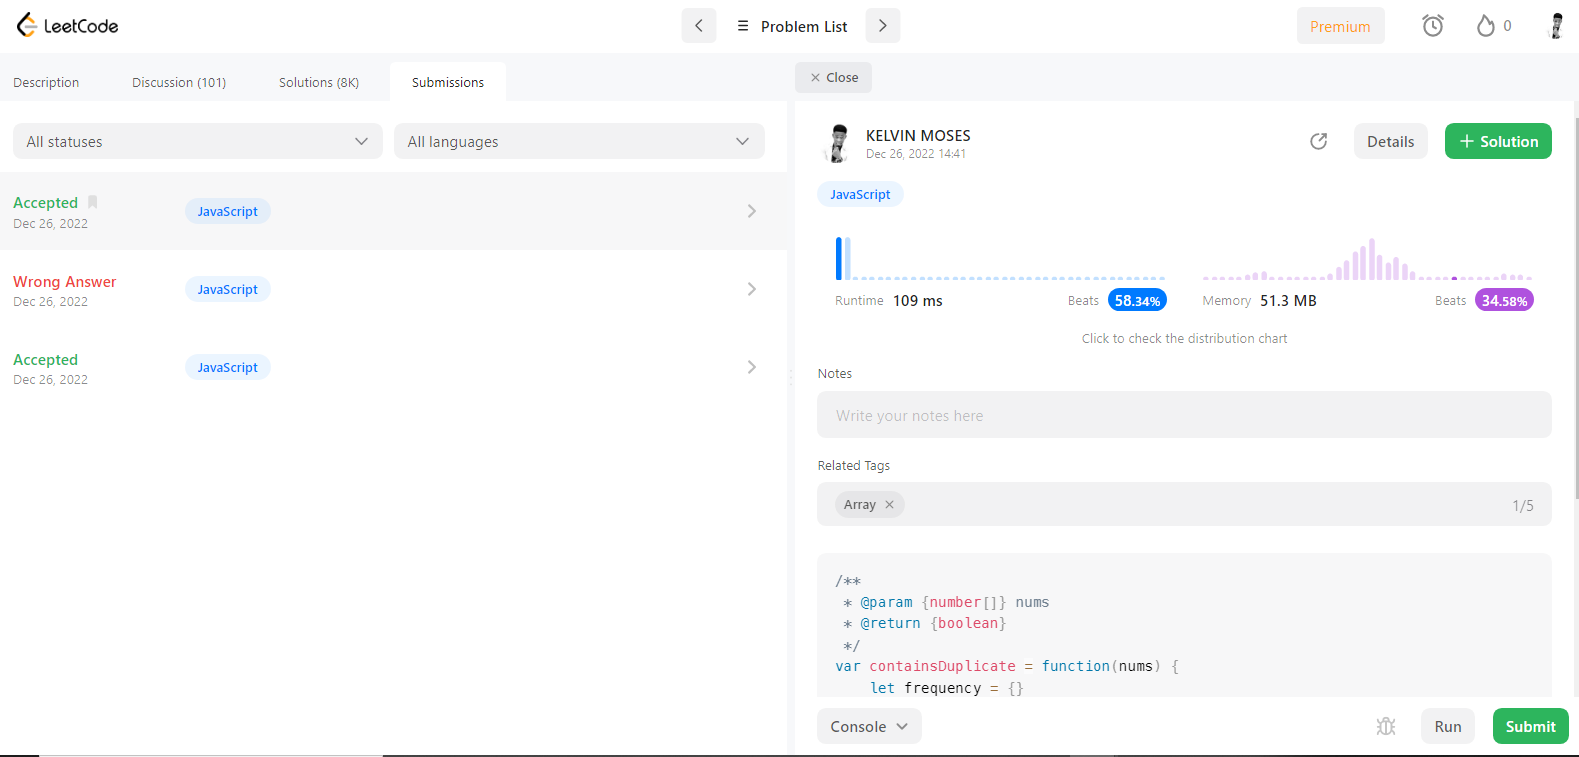
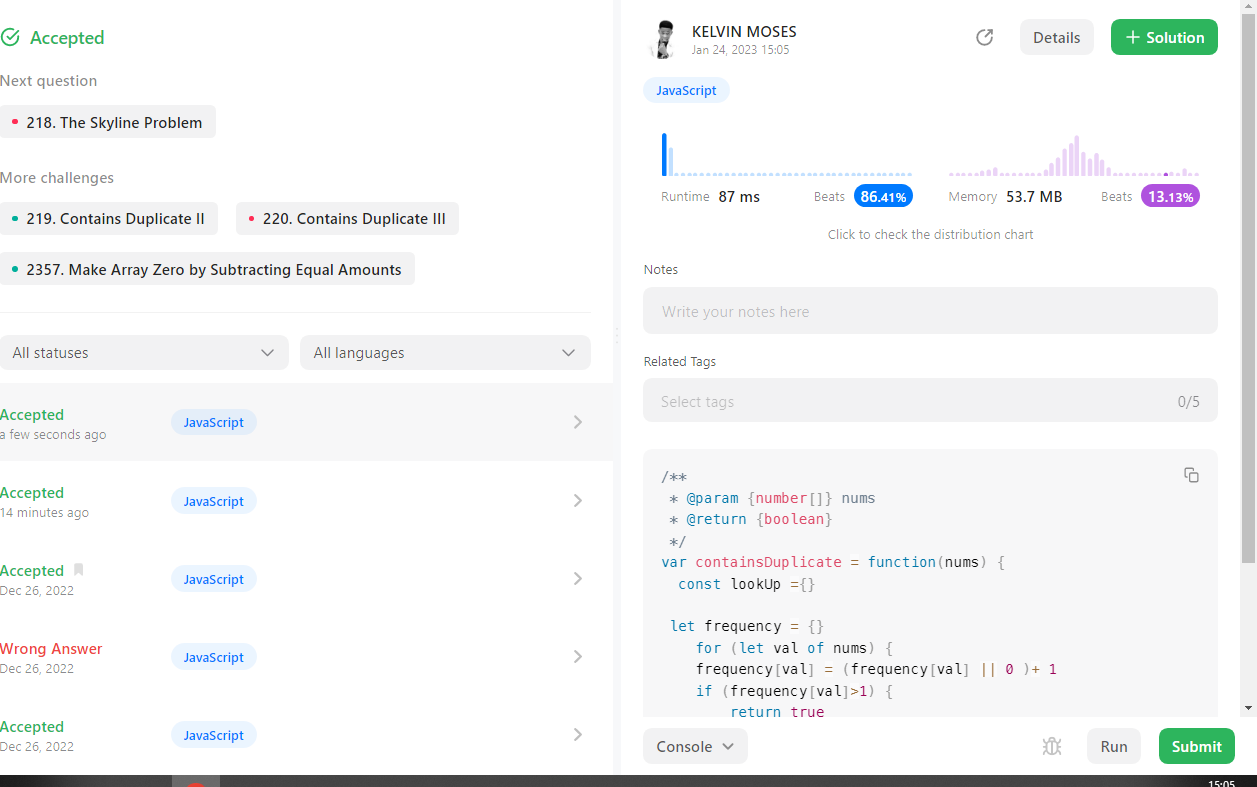
day1 and day2

diff --git a/day1/problem1.js b/day1/problem1.js
@@ -1,14 +1,16 @@
-/**
  * @param {number[]} nums
  * @return {boolean}
  */
-var containsDuplicate = function (nums) {
-  let frequency = {}
-  for (let val of nums) {
-    frequency[val] = (frequency[val] || 0) + 1
-    if (frequency[val] > 1) {
-      return true
+var containsDuplicate = function(nums) {
+  const lookUp ={}
+
+ let frequency = {}        
+    for (let val of nums) {        
+    frequency[val] = (frequency[val] || 0 )+ 1
+    if (frequency[val]>1) {
+        return true        
     }
-  }
-  return false
 }
+    return false
+  
+};

diff --git a/day1/problem3.js b/day1/problem3.js
@@ -1,0 +1,18 @@
+/**
+ * @param {number[]} nums
+ * @param {number} target
+ * @return {number[]}
+ */
+var twoSum = function (nums, target) {
+  const map = {}
+  for (let index = 0; index < nums.length; index++) {
+    const element = nums[index]
+    const complement = target - element
+    if (map[complement] !== undefined) {
+      return [map[complement], index]
+    } else {
+      map[element] = index
+    }
+  }
+  return []
+}

diff --git a/day2/Untitled3.js b/day2/Untitled3.js
@@ -1,0 +1,19 @@
+/**
+ * @param {number[]} nums
+ * @return {number[]}
+ */
+var productExceptSelf = function (nums) {
+  let res = []
+  let left = 1
+  let right = 1
+  for (let i = 0; i < nums.length; i++) {
+    res[i] = left
+    left = left * nums[i]
+  }
+
+  for (let i = nums.length - 1; i >= 0; i--) {
+    res[i] = right * res[i]
+    right = right * nums[i]
+  }
+  return res
+}

diff --git a/day1/problem2.js b/day1/problem2.js
@@ -1,0 +1,21 @@
+/**
+ * @param {string} s
+ * @param {string} t
+ * @return {boolean}
+ */
+var isAnagram = function (s, t) {
+  const lookup = {}
+
+  if (s.length !== t.length) return false
+  for (let val of s) {
+    lookup[val] = (lookup[val] || 0) + 1
+  }
+
+  for (let val of t) {
+    if (!lookup[val]) {
+      return false
+    }
+    lookup[val] -= 1
+  }
+  return true
+}

diff --git a/day2/problem.js b/day2/problem.js
@@ -1,0 +1,16 @@
+/**
+ * @param {string[]} strs
+ * @return {string[][]}
+ */
+var groupAnagrams = function (strs) {
+  let result = {}
+  for (let word of strs) {
+    let sortedWord = word.split('').sort().join('')
+    if (result[sortedWord]) {
+      result[sortedWord].push(word)
+    } else {
+      result[sortedWord] = [word]
+    }
+  }
+  return Object.values(result)
+}
